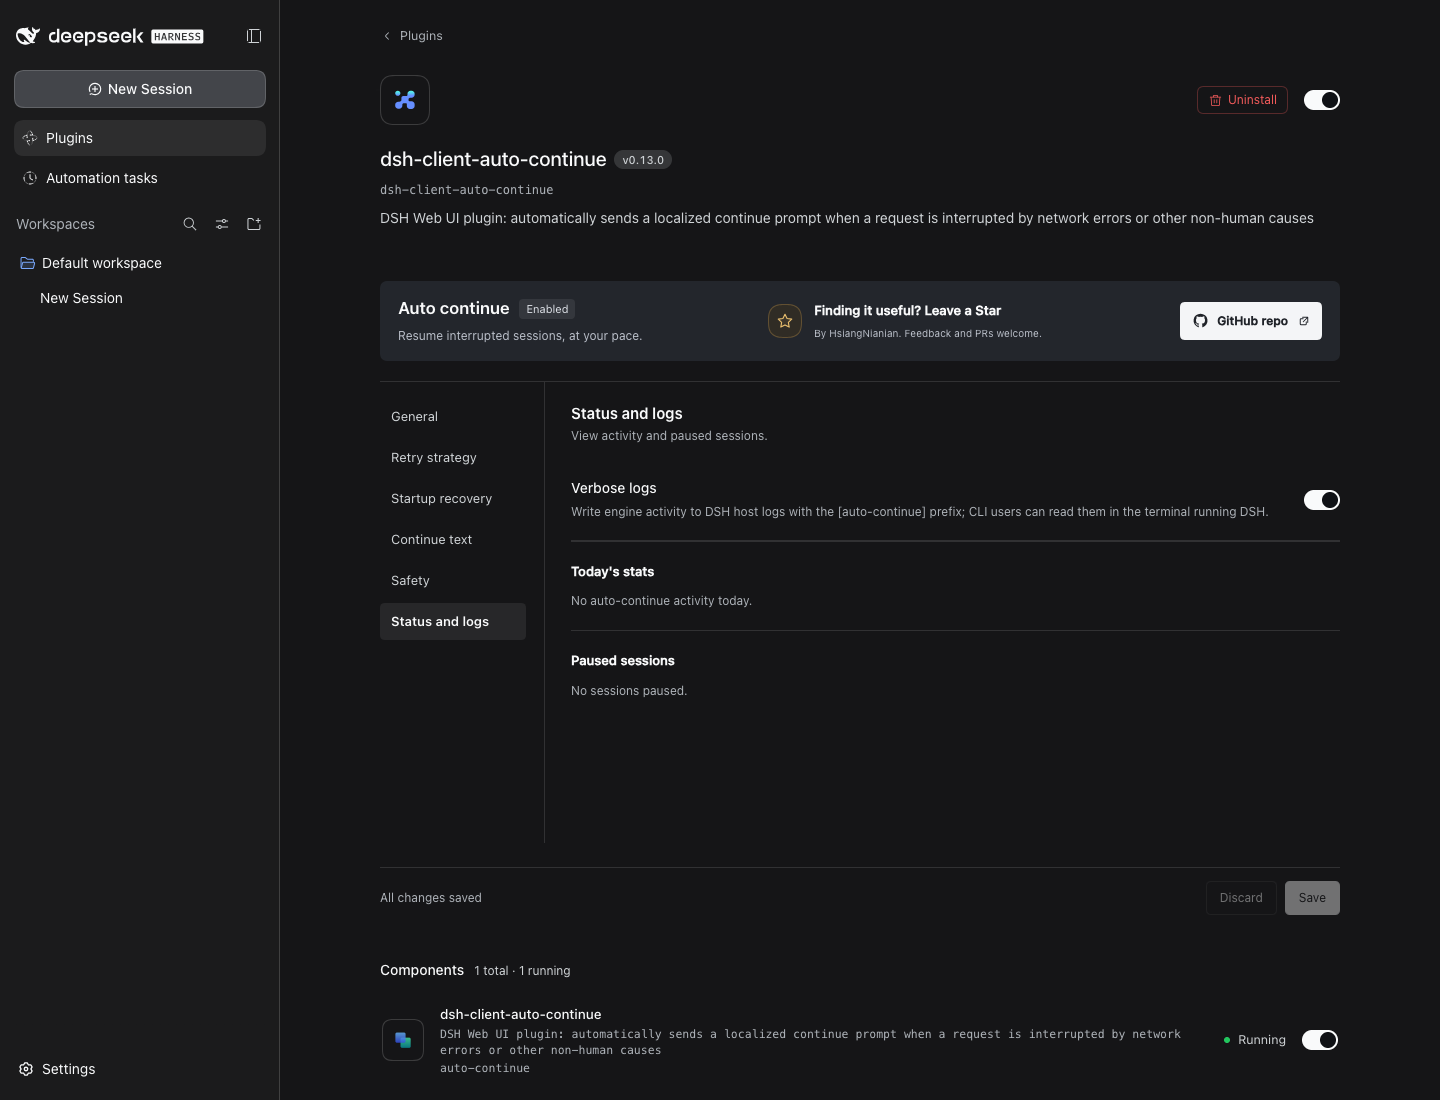
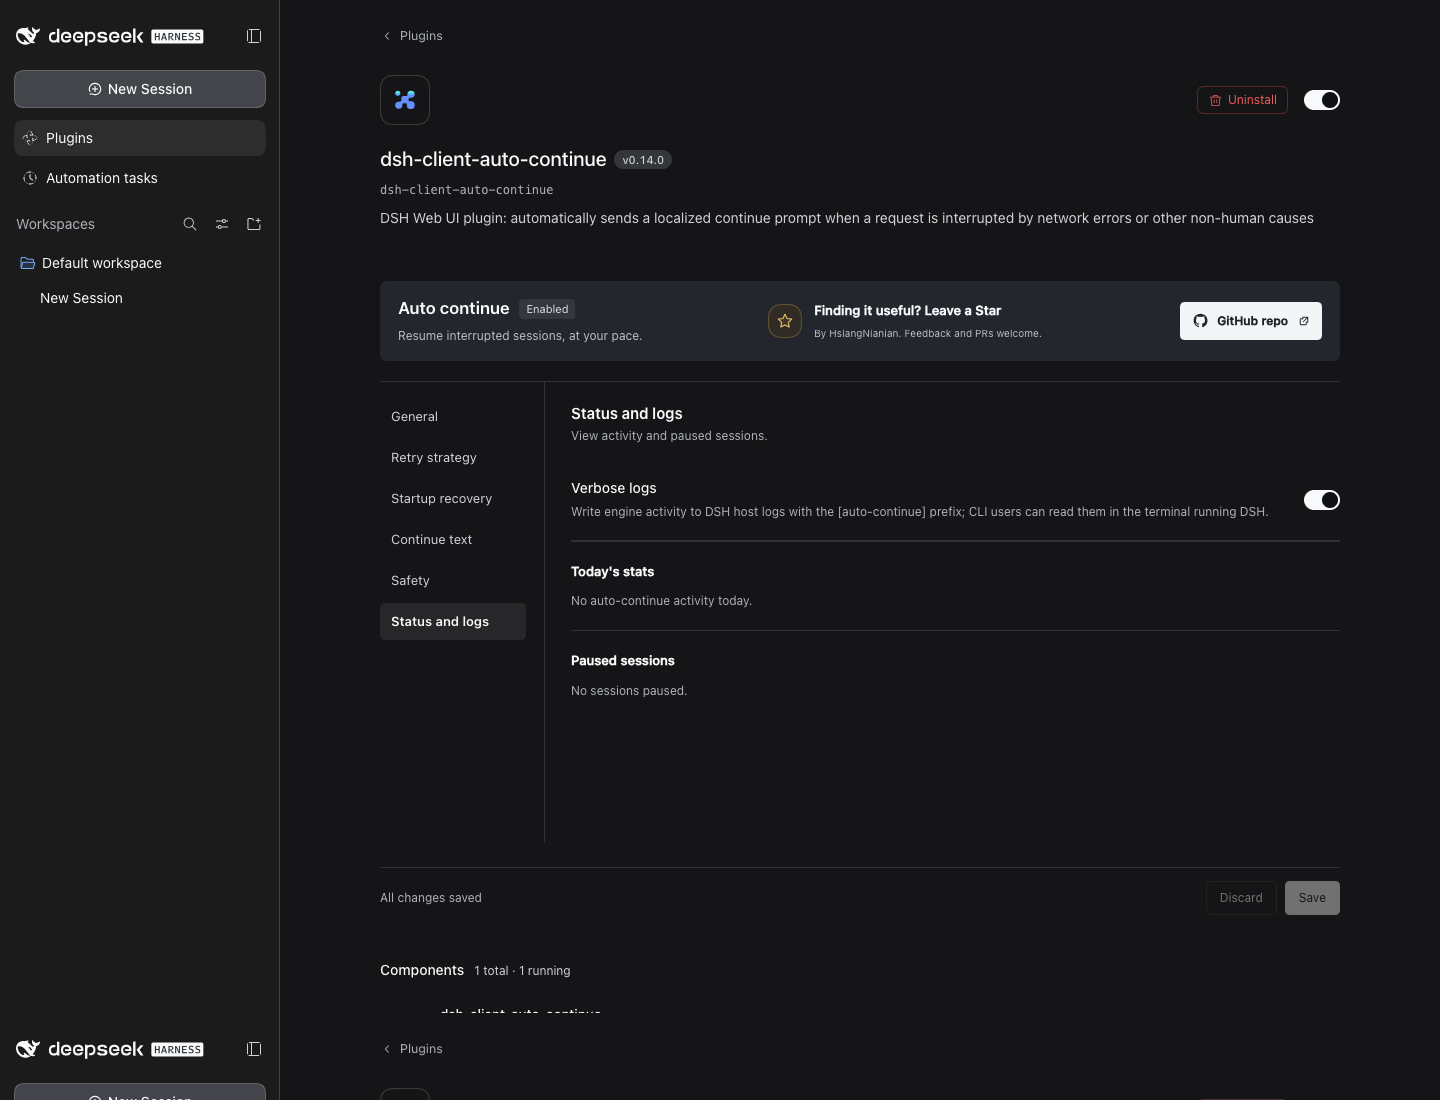
chore: release v0.14.0

diff --git a/README.md b/README.md
@@ -91,7 +91,7 @@ DSH plugins install into a **profile** (`dsh web` → `web` profile). The comman
 
 | DSH runtime | Plugin version | Configuration entry point |
 | --- | --- | --- |
-| **0.2.1-alpha.1** | **0.13.0 verified** | **Plugins → dsh-client-auto-continue** |
+| **0.2.1-alpha.1** | **0.14.0 verified** | **Plugins → dsh-client-auto-continue** |
 | **0.2.0-rc.1** | **0.12.1 or newer** | **Plugins → dsh-client-auto-continue** |
 | **0.1.7-rc.2** | **0.11.9 or newer** | Same Plugins page |
 | Older hosts with the legacy settings API | Legacy UI retained | **Settings → Plugins → Plugin configuration** |
@@ -100,7 +100,7 @@ DSH 0.1.0-rc.6 and earlier are unsupported. Automated runtime checks cover **0.1
 
 **Plugins 0.11.9 and 0.12.0 are rejected by DSH 0.2.0-rc.1’s version check.** Upgrade the plugin to 0.12.1 or newer; its existing configuration-form integration works on this runtime. See [#50](https://github.com/HsiangNianian/dsh-auto-continue/issues/50).
 
-On current DSH, **Settings → Built-in plugins** is a component inventory, not the configuration editor. Use the main **Plugins** page. The screenshots below show the current working-tree UI on **DSH 0.2.1-alpha.1**. If you previously installed with a symlink or hand-written loader entry, see [Migrating an older installation](#migrating-an-older-installation).
+On current DSH, **Settings → Built-in plugins** is a component inventory, not the configuration editor. Use the main **Plugins** page. The screenshots below show plugin **0.14.0** on **DSH 0.2.1-alpha.1**. If you previously installed with a symlink or hand-written loader entry, see [Migrating an older installation](#migrating-an-older-installation).
 
 ### From npm (recommended)
 

diff --git a/docs/screenshots/README.md b/docs/screenshots/README.md
@@ -1,7 +1,7 @@
 # Configuration and composer screenshots
 
-Captured on 2026-10-06 with **DSH 0.2.1-alpha.1** and the **current working-tree build**
-(the package version remains 0.13.0 until release), using Chromium and DSH's dark theme.
+Captured on 2026-10-06 with **DSH 0.2.1-alpha.1** and **plugin 0.14.0**,
+using Chromium and DSH's dark theme.
 The capture uses an isolated `DSH_HOME` with no API keys or user conversations.
 
 | View | English | Chinese | Viewport |
